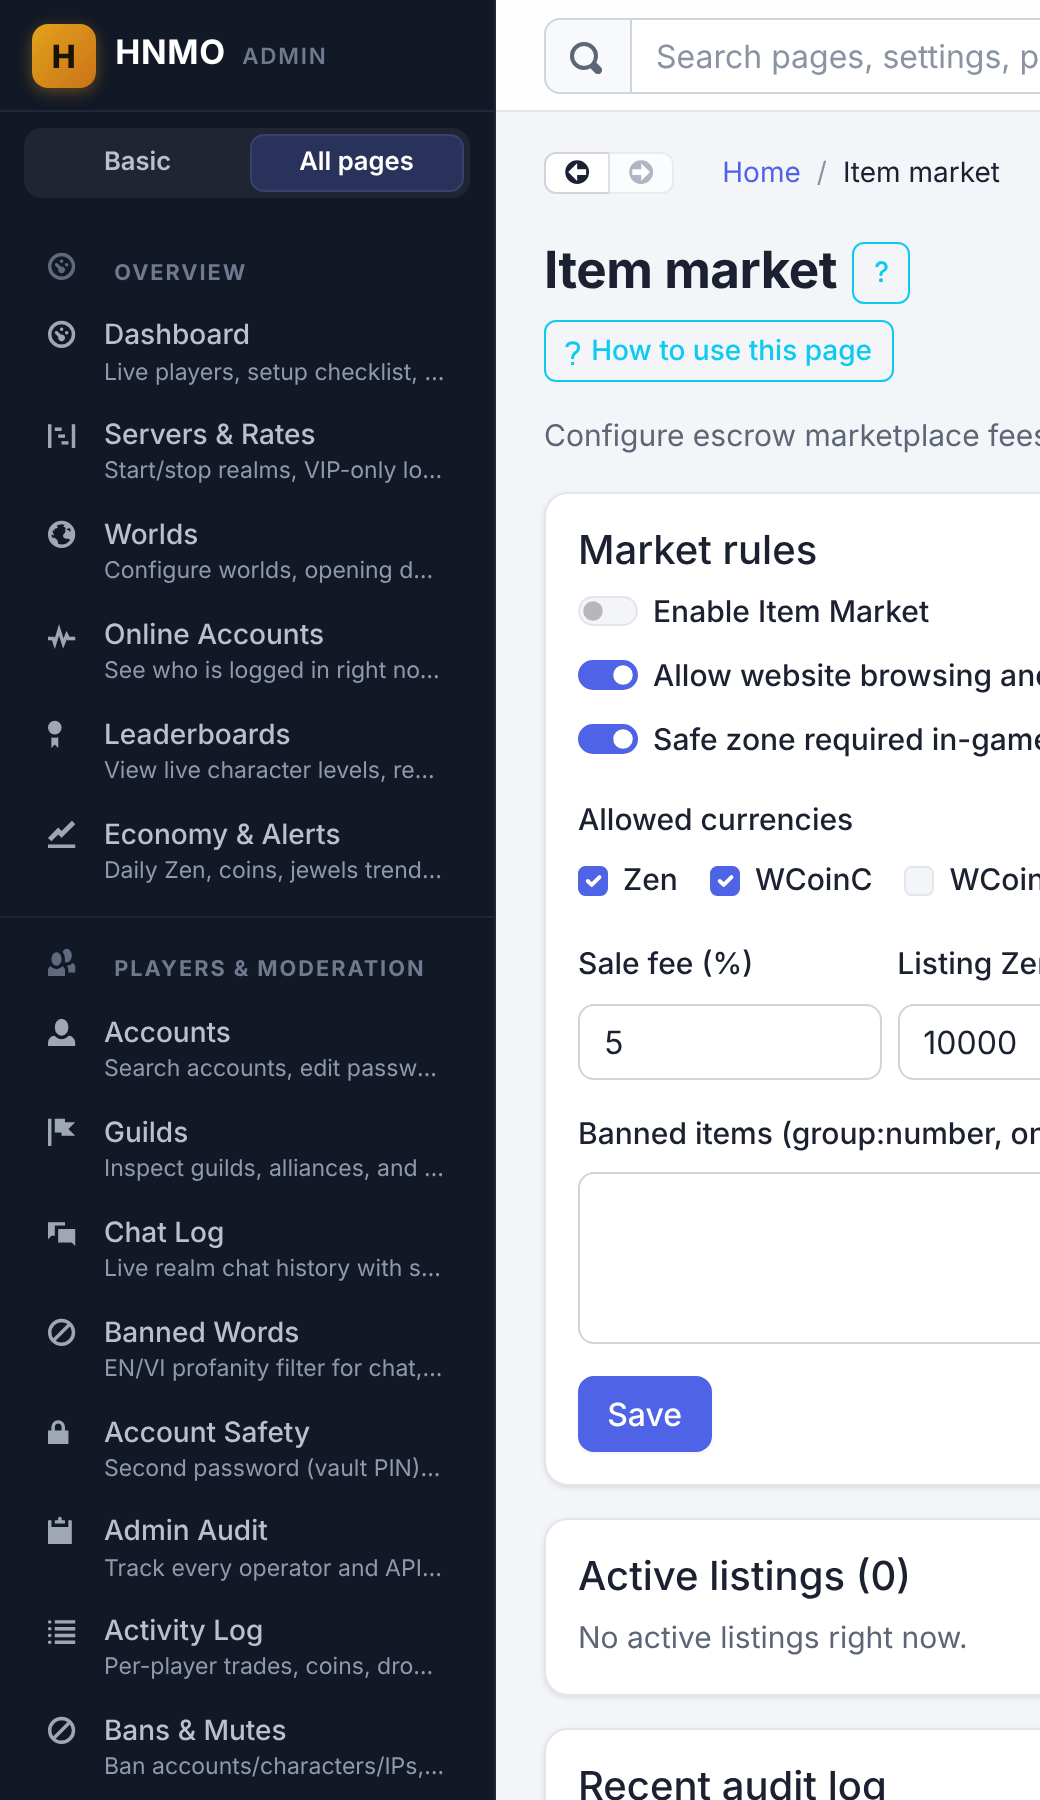
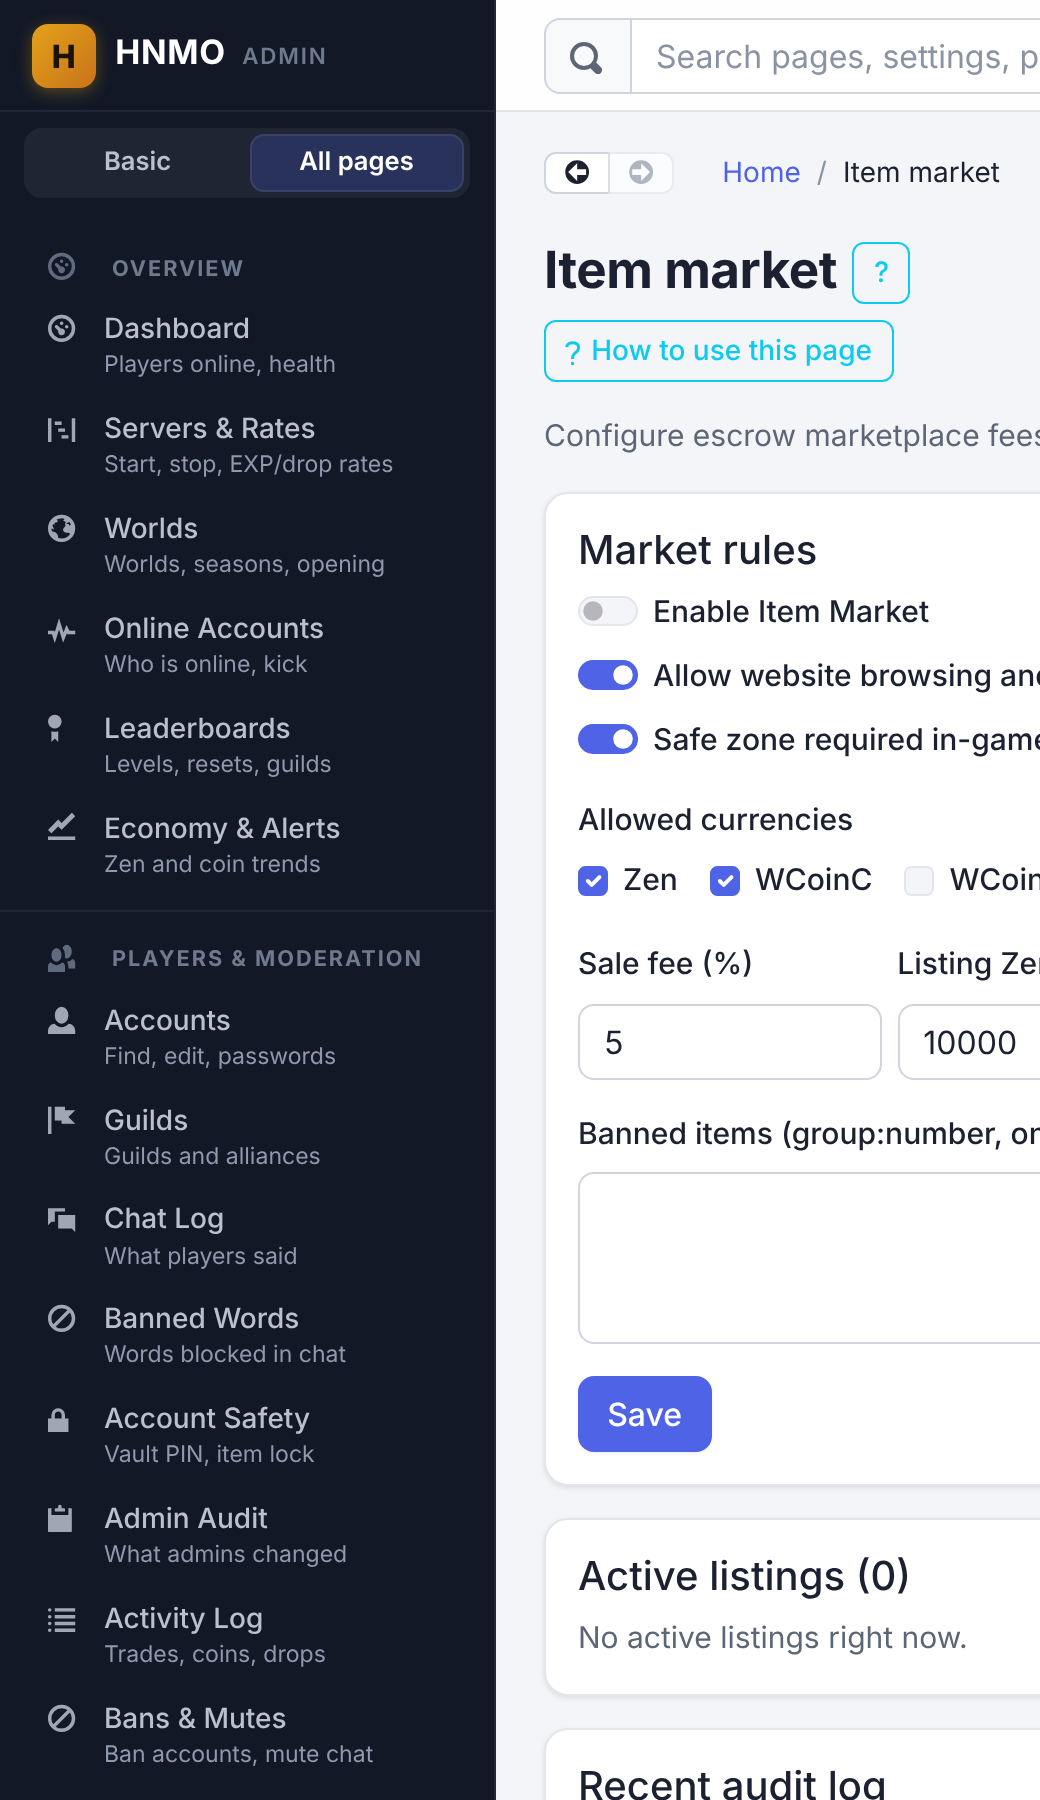
Admin menu: a short line under each page that fits, in EN and VI, instead of a long sentence cut off
The sidebar now shows a few words per page (AdminNavHints, at most 30 characters, both languages);
the full description stays in the tooltip, the quick search and the page. A test checks every page
has a hint that fits. Section headings stay beside their icon when the Vietnamese name wraps.
Two descriptions corrected: escrow opens with Shift+F6 (not F9), and the auto-play settings no
longer name another product. Checked in the browser in EN and VI: 76 lines, none cut.

Claude-Session: https://claude.ai/code/session_01ARvCQ7NDFPxp8dNa9pWtwX

diff --git a/server/src/Web/Shared/wwwroot/css/navigation.css b/server/src/Web/Shared/wwwroot/css/navigation.css
@@ -68,6 +68,10 @@
 
 .sidebar .nav-section {
   list-style: none;
+  display: flex;
+  align-items: center;
+  gap: 0.15rem;
+  line-height: 1.3;
   padding: 1rem 1.5rem 0.35rem;
   font-size: 0.68rem;
   font-weight: 700;

diff --git a/server/src/Web/AdminPanel/Services/AdminNavHints.cs b/server/src/Web/AdminPanel/Services/AdminNavHints.cs
@@ -1,0 +1,123 @@
+// <copyright file="AdminNavHints.cs" company="HNMO">
+// Licensed under the MIT License. See LICENSE file in the project root for full license information.
+// </copyright>
+
+namespace HNMO.Web.AdminPanel.Services;
+
+using System.Globalization;
+
+/// <summary>
+/// The short line the sidebar shows under each page's name: a few words that fit the menu's width without being cut.
+/// The page's full description stays in the tooltip, the quick search and the page itself.
+/// </summary>
+public static class AdminNavHints
+{
+    /// <summary>The longest hint, in characters, that fits the sidebar on one line.</summary>
+    public const int MaximumLength = 30;
+
+    private static readonly IReadOnlyDictionary<string, (string En, string Vi)> Hints = new Dictionary<string, (string En, string Vi)>(StringComparer.OrdinalIgnoreCase)
+    {
+        [""] = ("Players online, health", "Người online, tình trạng"),
+        ["servers"] = ("Start, stop, EXP/drop rates", "Bật/tắt, tỉ lệ EXP/rớt đồ"),
+        ["worlds"] = ("Worlds, seasons, opening", "Cụm máy chủ, mùa, ngày mở"),
+        ["logged-in"] = ("Who is online, kick", "Ai đang online, ngắt"),
+        ["leaderboards"] = ("Levels, resets, guilds", "Cấp, reset, bang hội"),
+        ["economy-dashboard"] = ("Zen and coin trends", "Xu hướng Zen và coin"),
+        ["accounts"] = ("Find, edit, passwords", "Tìm, sửa, mật khẩu"),
+        ["guilds"] = ("Guilds and alliances", "Bang hội và liên minh"),
+        ["chat-log"] = ("What players said", "Người chơi đã chat gì"),
+        ["banned-words"] = ("Words blocked in chat", "Từ bị chặn khi chat"),
+        ["account-safety"] = ("Vault PIN, item lock", "Mã kho, khóa đồ"),
+        ["audit"] = ("What admins changed", "Quản trị đã đổi gì"),
+        ["activity-log"] = ("Trades, coins, drops", "Giao dịch, coin, rớt đồ"),
+        ["bans"] = ("Ban accounts, mute chat", "Khóa tài khoản, cấm chat"),
+        ["character-tools"] = ("Move, rename, fix stats", "Dịch chuyển, đổi tên, chỉ số"),
+        ["gm"] = ("Game Master rights", "Quyền Game Master"),
+        ["merchants"] = ("What NPC shops sell", "NPC bán gì"),
+        ["cash-shop-catalog"] = ("X shop items and prices", "Gói Cash Shop và giá"),
+        ["market"] = ("F6 market rules, listings", "Luật chợ F6, tin đăng"),
+        ["escrow-contracts"] = ("Shift+F6 safe trades", "Giao dịch an toàn Shift+F6"),
+        ["jewel-bank"] = ("F7 jewel storage, fees", "Kho ngọc F7, phí"),
+        ["off-trade"] = ("Shops while offline", "Bán hàng khi offline"),
+        ["vip"] = ("VIP tiers and boosts", "Gói VIP và ưu đãi"),
+        ["merchants/legacy"] = ("NPC shops, table view", "Cửa hàng NPC dạng bảng"),
+        ["castle-siege"] = ("Siege dates and prizes", "Lịch công thành, phần thưởng"),
+        ["s6-events"] = ("Blood Castle, Devil Square", "Huyết Lâu, Quảng Trường Quỷ"),
+        ["timetable"] = ("Event times (Sydney)", "Giờ sự kiện (Sydney)"),
+        ["event-alerts"] = ("Push and Discord alerts", "Thông báo đẩy và Discord"),
+        ["world-bosses-rankings"] = ("Boss spawns, weekly prizes", "Boss, phần thưởng tuần"),
+        ["top-races"] = ("Daily/weekly contests", "Đua top ngày/tuần"),
+        ["missions-rewards"] = ("Daily missions, coins", "Nhiệm vụ ngày, coin"),
+        ["gift-codes"] = ("Make gift codes", "Tạo mã quà tặng"),
+        ["topup-milestones"] = ("Top-up reward tiers", "Mốc thưởng nạp"),
+        ["resets-relife"] = ("Reset and relife rules", "Luật reset và relife"),
+        ["onboarding-starter-kit"] = ("New-player guide, kit", "Hướng dẫn tân thủ, quà"),
+        ["community"] = ("Community events, Discord", "Sự kiện cộng đồng, Discord"),
+        ["guilds-levels-ladder"] = ("Guild levels, prizes", "Cấp bang, phần thưởng"),
+        ["content-activation"] = ("Turn maps, classes on/off", "Bật/tắt bản đồ, lớp"),
+        ["lucky-number"] = ("Daily lucky draw", "Quay số may mắn mỗi ngày"),
+        ["marriage"] = ("Weddings, couple buffs", "Kết hôn, buff vợ chồng"),
+        ["catchup"] = ("Daily caps, catch-up EXP", "Giới hạn ngày, EXP đuổi kịp"),
+        ["season-plan"] = ("Unlock features over time", "Mở tính năng theo thời gian"),
+        ["leftovers"] = ("Trade surplus items", "Đổi đồ dư"),
+        ["mounts"] = ("Mount shards, upgrades", "Mảnh thú cưỡi, nâng cấp"),
+        ["party-options"] = ("Party rejoin, hunt spots", "Vào lại nhóm, bãi săn"),
+        ["gift-box"] = ("Send gifts to players", "Gửi quà cho người chơi"),
+        ["news"] = ("News for players", "Tin tức cho người chơi"),
+        ["rate-tuning"] = ("Per-map rates, bonuses", "Tỉ lệ theo bản đồ, thưởng"),
+        ["gameplay-rules"] = ("PK, party EXP, combat", "PK, EXP nhóm, chiến đấu"),
+        ["anti-cheat"] = ("Speed and packet checks", "Kiểm tra tốc độ, gói tin"),
+        ["qol-settings"] = ("Auto-play, small comforts", "Tự động đánh, tiện ích"),
+        ["buffer-npc"] = ("Free starter buffs", "Buff miễn phí tân thủ"),
+        ["teleport-npc"] = ("Warp gates and costs", "Cổng dịch chuyển, phí"),
+        ["rankings-settings"] = ("Rankings, quick stats", "Bảng xếp hạng, cộng điểm"),
+        ["custom-ranks"] = ("Titles and bonuses", "Danh hiệu và chỉ số"),
+        ["hnmo-skills"] = ("Skill behaviour", "Cách kỹ năng hoạt động"),
+        ["map-editor"] = ("Monster and NPC spots", "Vị trí quái và NPC"),
+        ["terrain-editor"] = ("Safe zones, walls", "Vùng an toàn, vật cản"),
+        ["world-editor"] = ("3D map objects", "Vật thể bản đồ 3D"),
+        ["item-definitions"] = ("Create and edit items", "Tạo và sửa vật phẩm"),
+        ["edit-item-drops"] = ("What monsters drop", "Quái rớt đồ gì"),
+        ["fixed-options"] = ("Options on drops", "Dòng chỉ số khi rớt"),
+        ["vault-chaos-rewards"] = ("Chaos mix rates, chests", "Tỉ lệ quay đồ, rương"),
+        ["talismans"] = ("Talismans, stat scrolls", "Bùa, cuộn chỉ số"),
+        ["admin-guide"] = ("How-to for hosts", "Hướng dẫn chủ server"),
+        ["setup"] = ("Install the database", "Cài đặt cơ sở dữ liệu"),
+        ["config-updates"] = ("Apply data updates", "Áp dụng cập nhật dữ liệu"),
+        ["config-captions"] = ("Names in EN and VI", "Tên tiếng Anh và Việt"),
+        ["plugins"] = ("Turn features on/off", "Bật/tắt tính năng"),
+        ["chat-commands"] = ("All slash commands", "Tất cả lệnh chat"),
+        ["users"] = ("Who can use this panel", "Ai được vào trang quản trị"),
+        ["api-keys"] = ("Keys for website, tools", "Khóa cho website, công cụ"),
+        ["discord"] = ("Connect Discord", "Kết nối Discord"),
+        ["host-settings"] = ("Ports, database, email", "Cổng, cơ sở dữ liệu, email"),
+        ["crash-watch"] = ("Crashes and restarts", "Sự cố và khởi động lại"),
+        ["import-server"] = ("Bring in another server", "Nhập dữ liệu server khác"),
+        ["maintenance-tools"] = ("Clean-up and fixes", "Dọn dẹp và sửa lỗi"),
+        ["state-retention"] = ("Backups and restore", "Sao lưu và khôi phục"),
+        ["db-log-retention"] = ("How long logs are kept", "Giữ log bao lâu"),
+        ["logfiles"] = ("Read server logs", "Đọc log máy chủ"),
+        ["logging-configuration"] = ("How much is logged", "Mức ghi log"),
+        ["network-analyzer"] = ("Watch game packets", "Xem gói tin game"),
+        ["account/security"] = ("Your two-step login", "Đăng nhập 2 bước của bạn"),
+        ["create-game-server"] = ("Add a game server", "Thêm máy chủ game"),
+        ["create-connect-server"] = ("Add a connect server", "Thêm máy chủ kết nối"),
+        ["email-settings"] = ("Sign-up email (SMTP)", "Email đăng ký (SMTP)"),
+    };
+
+    /// <summary>Gets all hints, for tests.</summary>
+    public static IReadOnlyDictionary<string, (string En, string Vi)> All => Hints;
+
+    /// <summary>Gets the short sidebar line of <paramref name="entry"/> in the current language, or an empty string.</summary>
+    /// <param name="entry">The page.</param>
+    /// <returns>The hint.</returns>
+    public static string For(AdminNavEntry entry)
+    {
+        if (!Hints.TryGetValue(entry.Route, out var hint))
+        {
+            return string.Empty;
+        }
+
+        return CultureInfo.CurrentUICulture.TwoLetterISOLanguageName.Equals("vi", StringComparison.OrdinalIgnoreCase) ? hint.Vi : hint.En;
+    }
+}

diff --git a/server/src/Web/AdminPanel/Services/AdminNavCatalog.cs b/server/src/Web/AdminPanel/Services/AdminNavCatalog.cs
@@ -51,7 +51,7 @@ public static class AdminNavCatalog
                 new("merchants", "economy", "oi-cart", "Merchant Stores", "Cửa hàng NPC", "Edit NPC shop tabs and item stocks cleanly.", "Chỉnh sửa gian hàng và vật phẩm NPC.", true, "item-definitions", "cash-shop-catalog", "edit-item-drops"),
                 new("cash-shop-catalog", "economy", "oi-credit-card", "Cash Shop Catalog", "Danh mục Cash Shop", "Manage in-game X shop items, coin prices, and limits.", "Quản lý gói Cash Shop X, giá coin và giới hạn.", true, "topup-milestones", "accounts", "merchants"),
                 new("market", "economy", "oi-basket", "Item Market", "Chợ vật phẩm", "Monitor F6 web & NPC item marketplace listings and fees.", "Quản lý chợ vật phẩm F6, thuế và danh sách bán.", true, "escrow-contracts", "economy-dashboard", "account-safety"),
-                new("escrow-contracts", "economy", "oi-briefcase", "Escrow Contracts", "Giao dịch trung gian", "Manage F9 escrow contracts, holds, and dispute resolution.", "Quản lý hợp đồng giao dịch trung gian F9 và tranh chấp.", true, "market", "account-safety", "activity-log"),
+                new("escrow-contracts", "economy", "oi-briefcase", "Escrow Contracts", "Giao dịch trung gian", "Manage Shift+F6 escrow contracts, holds, and dispute resolution.", "Quản lý hợp đồng giao dịch trung gian Shift+F6 và tranh chấp.", true, "market", "account-safety", "activity-log"),
                 new("jewel-bank", "economy", "oi-box", "Jewel Bank", "Ngân hàng ngọc", "Configure F7 shared jewel storage, fees, and master skill clears.", "Cấu hình Ngân hàng ngọc F7, phí và tẩy điểm master.", true, "resets-relife", "leftovers", "economy-dashboard"),
                 new("off-trade", "economy", "oi-dollar", "Offline Trade", "Bán hàng offline", "Configure /offtrade Zen or coin personal stores while offline.", "Cấu hình cửa hàng cá nhân /offtrade treo máy offline.", false, "market", "qol-settings", "account-safety"),
                 new("vip", "economy", "oi-star", "VIP Tiers & Coins", "Gói VIP & Xu", "Configure VIP Bronze/Silver/Gold tiers, EXP/drop boosts, and coins.", "Cấu hình gói VIP Đồng/Bạc/Vàng, hệ số EXP/rớt đồ và xu.", true, "servers", "cash-shop-catalog", "topup-milestones"),
@@ -96,7 +96,7 @@ public static class AdminNavCatalog
                 new("rate-tuning", "world", "oi-dial", "Rate & Drop Tuning", "Điều chỉnh tỉ lệ EXP/Drop", "Customize per-map rules, Sydney bonus events, and damage caps.", "Quy tắc bản đồ, sự kiện giờ vàng Sydney và giới hạn sát thương.", true, "servers", "s6-events", "gameplay-rules"),
                 new("gameplay-rules", "world", "oi-shield", "Gameplay Rules", "Luật chơi chung", "Adjust PK limits, helper rules, party EXP, and core combat rules.", "Quy tắc PK, tổ đội, hỗ trợ và chiến đấu cốt lõi.", true, "rate-tuning", "anti-cheat", "qol-settings"),
                 new("anti-cheat", "world", "oi-warning", "Anti-Cheat", "Chống gian lận", "Configure attack speed, movement speed, and packet guard thresholds.", "Thiết lập ngưỡng kiểm tra tốc độ đánh, di chuyển và gói tin.", true, "banned-words", "crash-watch", "accounts"),
-                new("qol-settings", "world", "oi-wrench", "QoL & Auto-Play", "Tiện ích & Tự đánh", "Adjust MU Helper auto-play extras, Zen fees, and client convenience.", "Điều chỉnh Auto Helper, phí Zen và tiện ích người chơi.", true, "off-trade", "party-options", "rate-tuning"),
+                new("qol-settings", "world", "oi-wrench", "QoL & Auto-Play", "Tiện ích & Tự đánh", "Adjust the auto-play helper's extras, Zen fees, and client convenience.", "Điều chỉnh Auto Helper, phí Zen và tiện ích người chơi.", true, "off-trade", "party-options", "rate-tuning"),
                 new("buffer-npc", "world", "oi-plus", "Buffer NPC", "NPC Hỗ trợ (Elf)", "Configure starter buff level caps, durations, and NPC numbers.", "Cấu hình giới hạn cấp nhận buff Elf và thời gian hiệu lực.", true, "onboarding-starter-kit", "teleport-npc", "party-options"),
                 new("teleport-npc", "world", "oi-map-marker", "Teleport NPC", "NPC Dịch chuyển", "Edit custom warp gates, Zen costs, VIP, and PK checks.", "Thiết lập điểm dịch chuyển, phí Zen, điều kiện VIP và PK.", false, "party-options", "world-editor", "servers"),
                 new("rankings-settings", "world", "oi-list-rich", "In-Game Rankings & Add Stats", "BXH & Cộng điểm nhanh", "Toggle Shift+R live rankings window and Shift+A bulk stat add.", "Bật/tắt bảng xếp hạng Shift+R và cộng điểm nhanh Shift+A.", false, "leaderboards", "resets-relife", "custom-ranks"),

diff --git a/server/tests/HNMO.Web.Tests/Pages/AdminRedesignTests.cs b/server/tests/HNMO.Web.Tests/Pages/AdminRedesignTests.cs
@@ -87,6 +87,22 @@ public class AdminRedesignTests
     }
 
     /// <summary>Verifies <see cref="AdminNavigationPreferences"/> toggles favourites, recents, and view mode.</summary>
+    /// <summary>
+    /// Every page has a short line for the sidebar, in English and Vietnamese, that fits the menu's width without being cut.
+    /// </summary>
+    [Test]
+    public void EveryMenuPageHasAShortHintThatFits()
+    {
+        foreach (var entry in AdminNavCatalog.Entries)
+        {
+            Assert.That(AdminNavHints.All.TryGetValue(entry.Route, out var hint), Is.True, $"No sidebar hint for '{entry.Route}'.");
+            Assert.That(hint.En, Is.Not.Empty.And.Length.LessThanOrEqualTo(AdminNavHints.MaximumLength), $"English hint of '{entry.Route}'.");
+            Assert.That(hint.Vi, Is.Not.Empty.And.Length.LessThanOrEqualTo(AdminNavHints.MaximumLength), $"Vietnamese hint of '{entry.Route}'.");
+        }
+
+        Assert.That(AdminNavHints.All.Keys, Is.SubsetOf(AdminNavCatalog.Entries.Select(e => e.Route)), "A hint names a page the menu does not have.");
+    }
+
     [Test]
     public void PreferencesTrackFavouritesRecentsAndBasicMode()
     {
